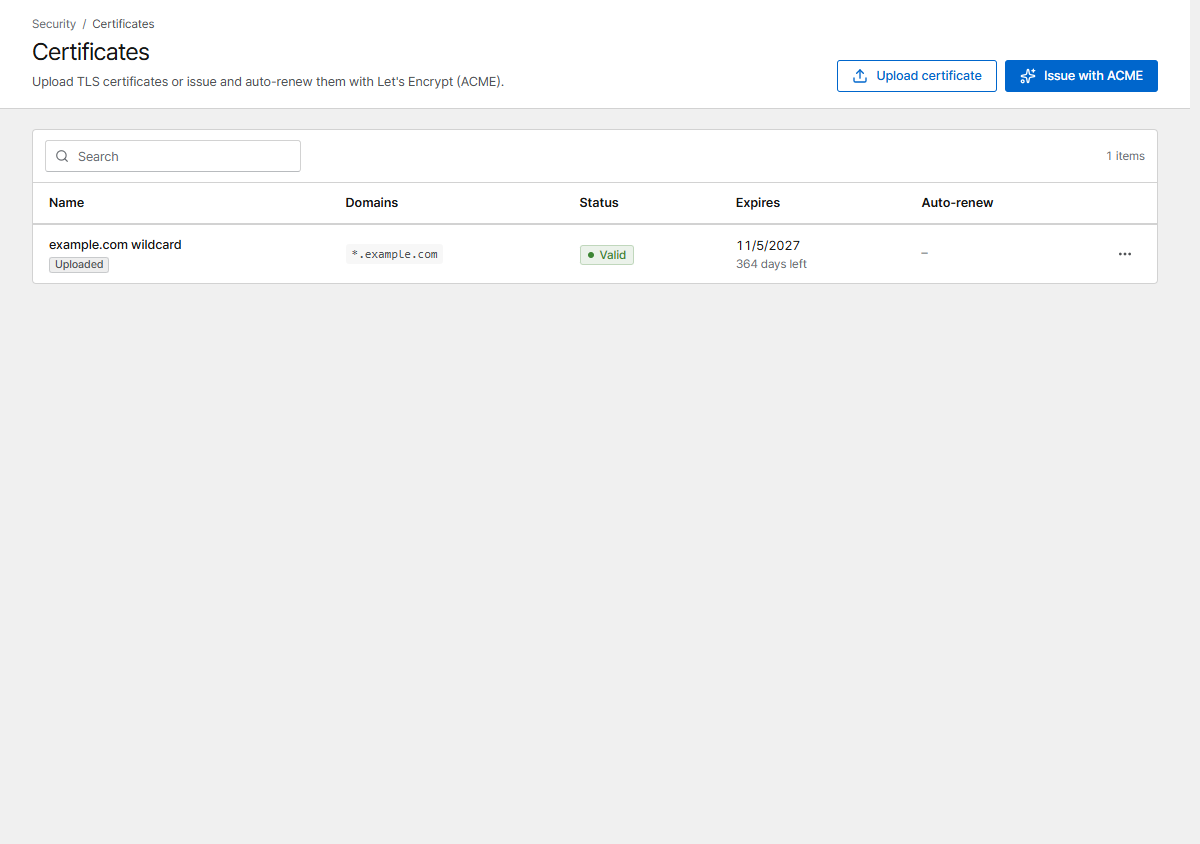
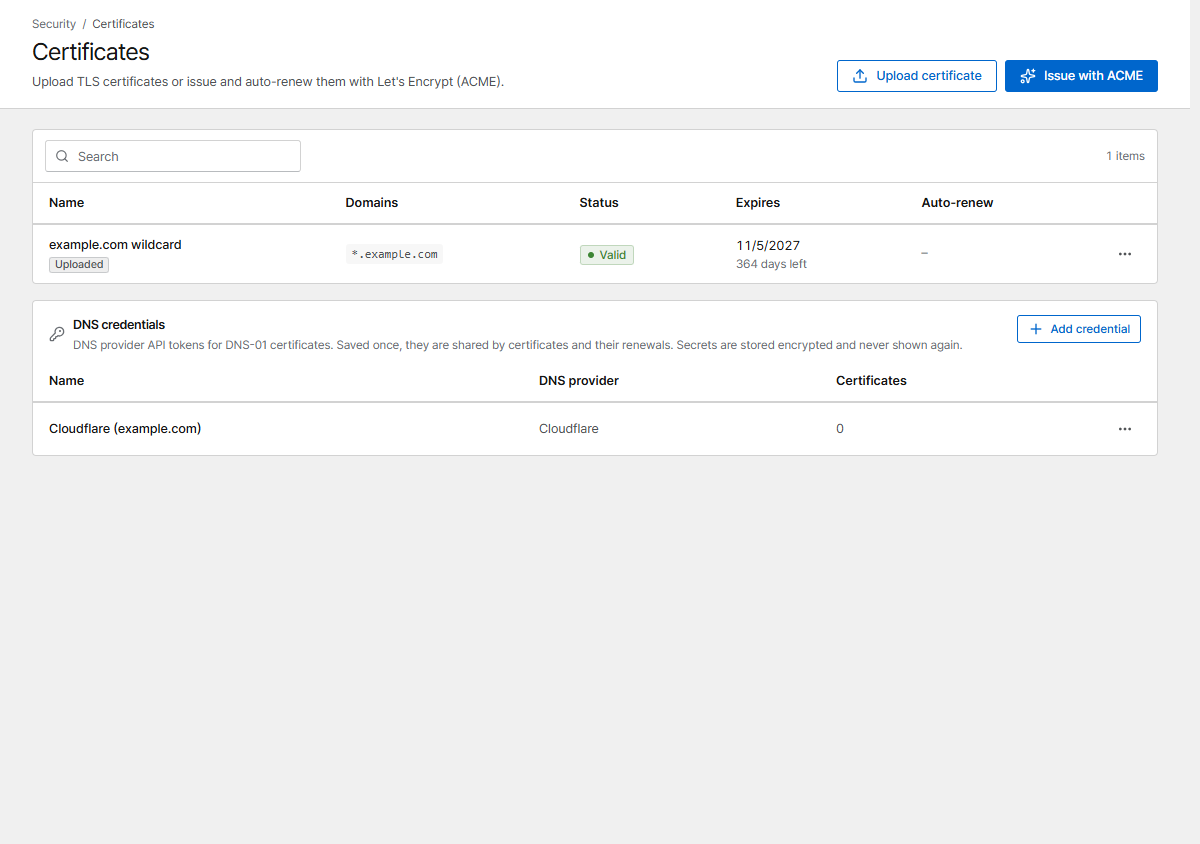
Docs: screenshots of saved DNS credentials

diff --git a/website/en/proxy/certificates.md b/website/en/proxy/certificates.md
@@ -37,6 +37,10 @@ list: pick the saved one, or choose **Enter new credentials** and optionally giv
 **Credential name**. This works the same on the Certificates page and when you request a
 certificate from a proxy or redirection host form.
 
+![DNS credential in the request form](../img/certificate-dns.png){ .shot .panel }
+
+![DNS credentials card](../img/dns-credentials.png){ .shot }
+
 The **DNS credentials** card at the bottom of the Certificates page lists them with the provider
 and how many certificates use each one. From the row menu:
 
